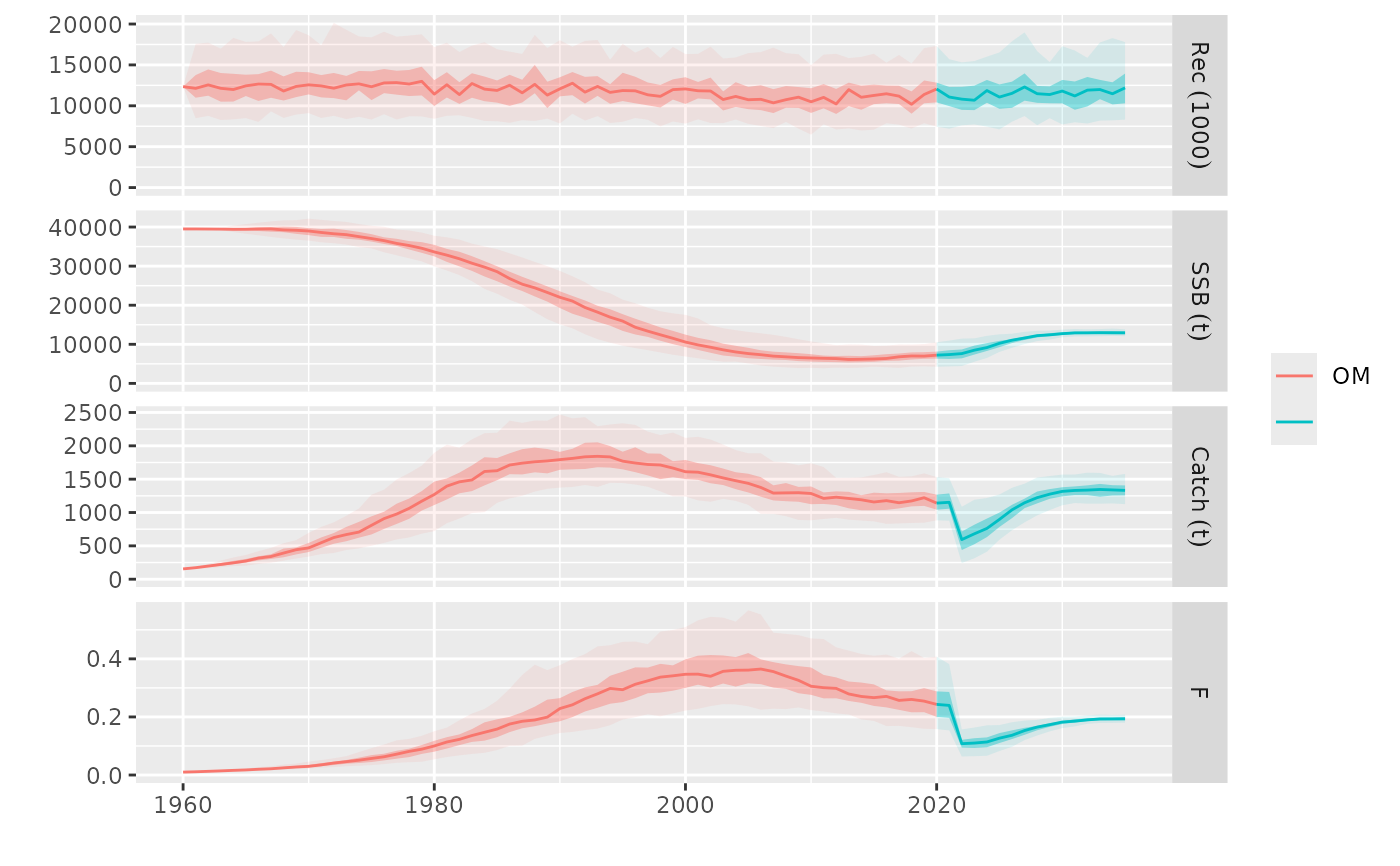
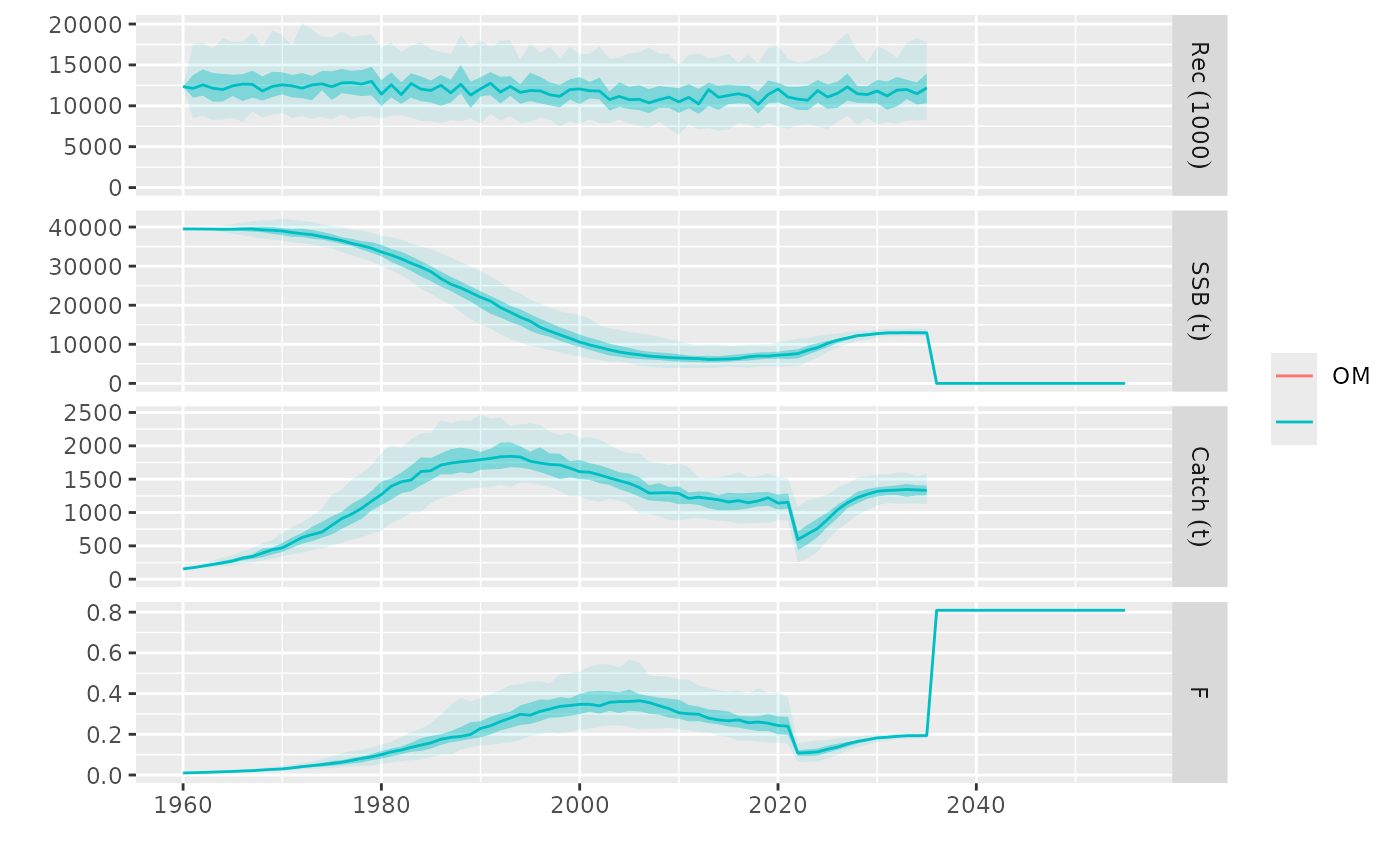
Deploying to docs from @ flr/mse@f95a011b499cf4b5842f5e885b6bc6577b5b932b 🚀

diff --git a/reference/tunebisect.html b/reference/tunebisect.html
@@ -19,7 +19,7 @@ SSBMSY over the 2032 to 2042 period."><meta property="og:image" content="https:/
 
     <a class="navbar-brand me-2" href="../index.html">mse</a>
 
-    <small class="nav-text text-muted me-auto" data-bs-toggle="tooltip" data-bs-placement="bottom" title="">2.4.10</small>
+    <small class="nav-text text-muted me-auto" data-bs-toggle="tooltip" data-bs-placement="bottom" title="">2.4.11</small>
 
 
     <button class="navbar-toggler" type="button" data-bs-toggle="collapse" data-bs-target="#navbar" aria-controls="navbar" aria-expanded="false" aria-label="Toggle navigation">
@@ -174,6 +174,12 @@ with an wider range of values, or the time-frame extended.</p>
 <span class="r-msg co"><span class="r-pr">#&gt;</span> [9] diff: -0.006, prob: 0.49</span>
 <span class="r-in"><span><span class="co"># Plot tuned MP</span></span></span>
 <span class="r-in"><span><span class="fu"><a href="https://rdrr.io/r/graphics/plot.default.html" class="external-link">plot</a></span><span class="op">(</span><span class="va">om</span>, <span class="va">tun</span><span class="op">)</span></span></span>
+<span class="r-wrn co"><span class="r-pr">#&gt;</span> <span class="warning">Warning: </span>Removed 4000 rows containing non-finite outside the scale range</span>
+<span class="r-wrn co"><span class="r-pr">#&gt;</span> (`stat_fl_quantiles()`).</span>
+<span class="r-wrn co"><span class="r-pr">#&gt;</span> <span class="warning">Warning: </span>Removed 4000 rows containing non-finite outside the scale range</span>
+<span class="r-wrn co"><span class="r-pr">#&gt;</span> (`stat_fl_quantiles()`).</span>
+<span class="r-wrn co"><span class="r-pr">#&gt;</span> <span class="warning">Warning: </span>Removed 4000 rows containing non-finite outside the scale range</span>
+<span class="r-wrn co"><span class="r-pr">#&gt;</span> (`stat_fl_quantiles()`).</span>
 <span class="r-plt img"><img src="tunebisect-1.png" alt="" width="700" height="433"></span>
 </code></pre></div>
     </div>

diff --git a/reference/mseCtrl-class.html b/reference/mseCtrl-class.html
@@ -17,7 +17,7 @@ dispatch" section in the mse Technical Manual.'><meta property="og:image" conten
 
     <a class="navbar-brand me-2" href="../index.html">mse</a>
 
-    <small class="nav-text text-muted me-auto" data-bs-toggle="tooltip" data-bs-placement="bottom" title="">2.4.10</small>
+    <small class="nav-text text-muted me-auto" data-bs-toggle="tooltip" data-bs-placement="bottom" title="">2.4.11</small>
 
 
     <button class="navbar-toggler" type="button" data-bs-toggle="collapse" data-bs-target="#navbar" aria-controls="navbar" aria-expanded="false" aria-label="Toggle navigation">
@@ -155,7 +155,7 @@ for sizing, but not for populating any slot.</p>
 <span class="r-out co"><span class="r-pr">#&gt;</span> Method:</span>
 <span class="r-out co"><span class="r-pr">#&gt;</span> function (stk, args, alpha) </span>
 <span class="r-out co"><span class="r-pr">#&gt;</span> ssb(stk) * alpha</span>
-<span class="r-out co"><span class="r-pr">#&gt;</span> &lt;environment: 0x562260abc228&gt;</span>
+<span class="r-out co"><span class="r-pr">#&gt;</span> &lt;environment: 0x55f3bbdd5b48&gt;</span>
 <span class="r-out co"><span class="r-pr">#&gt;</span> Arguments:</span>
 <span class="r-out co"><span class="r-pr">#&gt;</span> $alpha</span>
 <span class="r-out co"><span class="r-pr">#&gt;</span> [1] 0.5</span>
@@ -163,7 +163,7 @@ for sizing, but not for populating any slot.</p>
 <span class="r-in"><span><span class="fu">method</span><span class="op">(</span><span class="va">ctl</span><span class="op">)</span></span></span>
 <span class="r-out co"><span class="r-pr">#&gt;</span> function (stk, args, alpha) </span>
 <span class="r-out co"><span class="r-pr">#&gt;</span> ssb(stk) * alpha</span>
-<span class="r-out co"><span class="r-pr">#&gt;</span> &lt;environment: 0x562260abc228&gt;</span>
+<span class="r-out co"><span class="r-pr">#&gt;</span> &lt;environment: 0x55f3bbdd5b48&gt;</span>
 <span class="r-in"><span><span class="fu">method</span><span class="op">(</span><span class="va">ctl</span><span class="op">)</span> <span class="op">&lt;-</span> <span class="kw">function</span><span class="op">(</span><span class="va">stk</span>, <span class="va">args</span>, <span class="va">beta</span><span class="op">)</span> <span class="fu">ssb</span><span class="op">(</span><span class="va">stk</span><span class="op">)</span> <span class="op">*</span> <span class="va">beta</span></span></span>
 <span class="r-in"><span><span class="fu">args</span><span class="op">(</span><span class="va">ctl</span><span class="op">)</span></span></span>
 <span class="r-out co"><span class="r-pr">#&gt;</span> $alpha</span>

diff --git a/404.html b/404.html
@@ -21,7 +21,7 @@
 
     <a class="navbar-brand me-2" href="https://flrproject.org/mse/index.html">mse</a>
 
-    <small class="nav-text text-muted me-auto" data-bs-toggle="tooltip" data-bs-placement="bottom" title="">2.4.10</small>
+    <small class="nav-text text-muted me-auto" data-bs-toggle="tooltip" data-bs-placement="bottom" title="">2.4.11</small>
 
 
     <button class="navbar-toggler" type="button" data-bs-toggle="collapse" data-bs-target="#navbar" aria-controls="navbar" aria-expanded="false" aria-label="Toggle navigation">

diff --git a/authors.html b/authors.html
@@ -7,7 +7,7 @@
 
     <a class="navbar-brand me-2" href="index.html">mse</a>
 
-    <small class="nav-text text-muted me-auto" data-bs-toggle="tooltip" data-bs-placement="bottom" title="">2.4.10</small>
+    <small class="nav-text text-muted me-auto" data-bs-toggle="tooltip" data-bs-placement="bottom" title="">2.4.11</small>
 
 
     <button class="navbar-toggler" type="button" data-bs-toggle="collapse" data-bs-target="#navbar" aria-controls="navbar" aria-expanded="false" aria-label="Toggle navigation">

diff --git a/index.html b/index.html
@@ -23,7 +23,7 @@
 
     <a class="navbar-brand me-2" href="index.html">mse</a>
 
-    <small class="nav-text text-muted me-auto" data-bs-toggle="tooltip" data-bs-placement="bottom" title="">2.4.10</small>
+    <small class="nav-text text-muted me-auto" data-bs-toggle="tooltip" data-bs-placement="bottom" title="">2.4.11</small>
 
 
     <button class="navbar-toggler" type="button" data-bs-toggle="collapse" data-bs-target="#navbar" aria-controls="navbar" aria-expanded="false" aria-label="Toggle navigation">

diff --git a/news/index.html b/news/index.html
@@ -7,7 +7,7 @@
 
     <a class="navbar-brand me-2" href="../index.html">mse</a>
 
-    <small class="nav-text text-muted me-auto" data-bs-toggle="tooltip" data-bs-placement="bottom" title="">2.4.10</small>
+    <small class="nav-text text-muted me-auto" data-bs-toggle="tooltip" data-bs-placement="bottom" title="">2.4.11</small>
 
 
     <button class="navbar-toggler" type="button" data-bs-toggle="collapse" data-bs-target="#navbar" aria-controls="navbar" aria-expanded="false" aria-label="Toggle navigation">

diff --git a/reference/FLiem-class.html b/reference/FLiem-class.html
@@ -7,7 +7,7 @@
 
     <a class="navbar-brand me-2" href="../index.html">mse</a>
 
-    <small class="nav-text text-muted me-auto" data-bs-toggle="tooltip" data-bs-placement="bottom" title="">2.4.10</small>
+    <small class="nav-text text-muted me-auto" data-bs-toggle="tooltip" data-bs-placement="bottom" title="">2.4.11</small>
 
 
     <button class="navbar-toggler" type="button" data-bs-toggle="collapse" data-bs-target="#navbar" aria-controls="navbar" aria-expanded="false" aria-label="Toggle navigation">

diff --git a/reference/FLmse-class.html b/reference/FLmse-class.html
@@ -13,7 +13,7 @@ The FLmse class stores information relative to the MSE's management procedure'."
 
     <a class="navbar-brand me-2" href="../index.html">mse</a>
 
-    <small class="nav-text text-muted me-auto" data-bs-toggle="tooltip" data-bs-placement="bottom" title="">2.4.10</small>
+    <small class="nav-text text-muted me-auto" data-bs-toggle="tooltip" data-bs-placement="bottom" title="">2.4.11</small>
 
 
     <button class="navbar-toggler" type="button" data-bs-toggle="collapse" data-bs-target="#navbar" aria-controls="navbar" aria-expanded="false" aria-label="Toggle navigation">

diff --git a/reference/FLoem-class.html b/reference/FLoem-class.html
@@ -15,7 +15,7 @@ observations, and deviances to use on each step in the observation process."><me
 
     <a class="navbar-brand me-2" href="../index.html">mse</a>
 
-    <small class="nav-text text-muted me-auto" data-bs-toggle="tooltip" data-bs-placement="bottom" title="">2.4.10</small>
+    <small class="nav-text text-muted me-auto" data-bs-toggle="tooltip" data-bs-placement="bottom" title="">2.4.11</small>
 
 
     <button class="navbar-toggler" type="button" data-bs-toggle="collapse" data-bs-target="#navbar" aria-controls="navbar" aria-expanded="false" aria-label="Toggle navigation">

diff --git a/reference/FLom-class.html b/reference/FLom-class.html
@@ -13,7 +13,7 @@ Suspendisse eu sapien vitae arcu lobortis ultrices vitae ac velit. Curabitur id"
 
     <a class="navbar-brand me-2" href="../index.html">mse</a>
 
-    <small class="nav-text text-muted me-auto" data-bs-toggle="tooltip" data-bs-placement="bottom" title="">2.4.10</small>
+    <small class="nav-text text-muted me-auto" data-bs-toggle="tooltip" data-bs-placement="bottom" title="">2.4.11</small>
 
 
     <button class="navbar-toggler" type="button" data-bs-toggle="collapse" data-bs-target="#navbar" aria-controls="navbar" aria-expanded="false" aria-label="Toggle navigation">

diff --git a/reference/FLombf-class.html b/reference/FLombf-class.html
@@ -13,7 +13,7 @@ on the underlying FLBiols and FLFisheries slots."><meta property="og:image" cont
 
     <a class="navbar-brand me-2" href="../index.html">mse</a>
 
-    <small class="nav-text text-muted me-auto" data-bs-toggle="tooltip" data-bs-placement="bottom" title="">2.4.10</small>
+    <small class="nav-text text-muted me-auto" data-bs-toggle="tooltip" data-bs-placement="bottom" title="">2.4.11</small>
 
 
     <button class="navbar-toggler" type="button" data-bs-toggle="collapse" data-bs-target="#navbar" aria-controls="navbar" aria-expanded="false" aria-label="Toggle navigation">

diff --git a/reference/cpue.ind.html b/reference/cpue.ind.html
@@ -11,7 +11,7 @@ weighted mean over those same years and the slope of the trend over the same per
 
     <a class="navbar-brand me-2" href="../index.html">mse</a>
 
-    <small class="nav-text text-muted me-auto" data-bs-toggle="tooltip" data-bs-placement="bottom" title="">2.4.10</small>
+    <small class="nav-text text-muted me-auto" data-bs-toggle="tooltip" data-bs-placement="bottom" title="">2.4.11</small>
 
 
     <button class="navbar-toggler" type="button" data-bs-toggle="collapse" data-bs-target="#navbar" aria-controls="navbar" aria-expanded="false" aria-label="Toggle navigation">